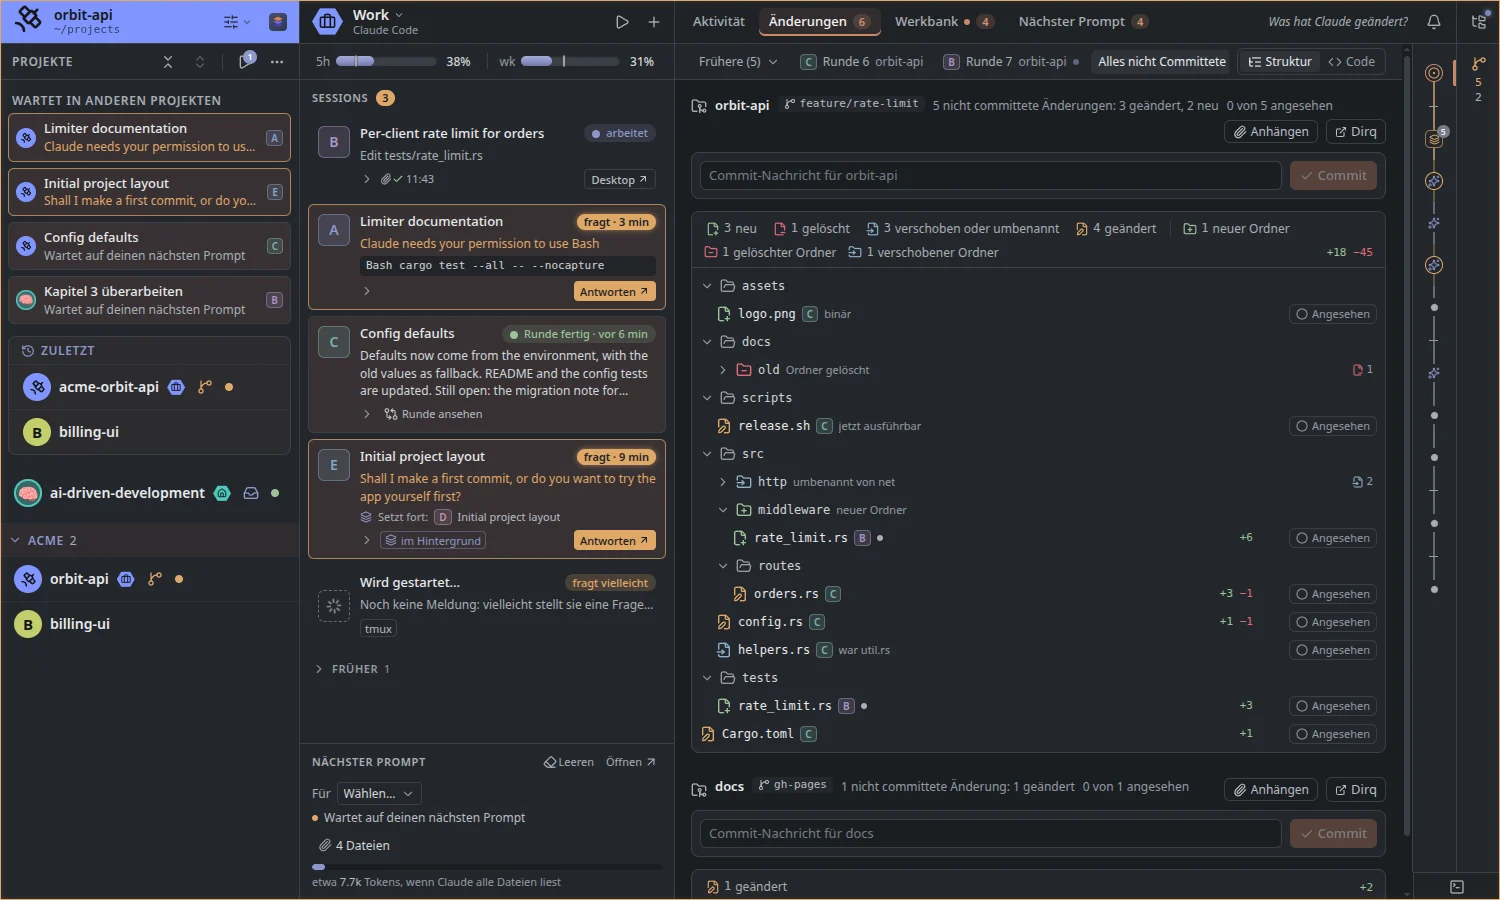
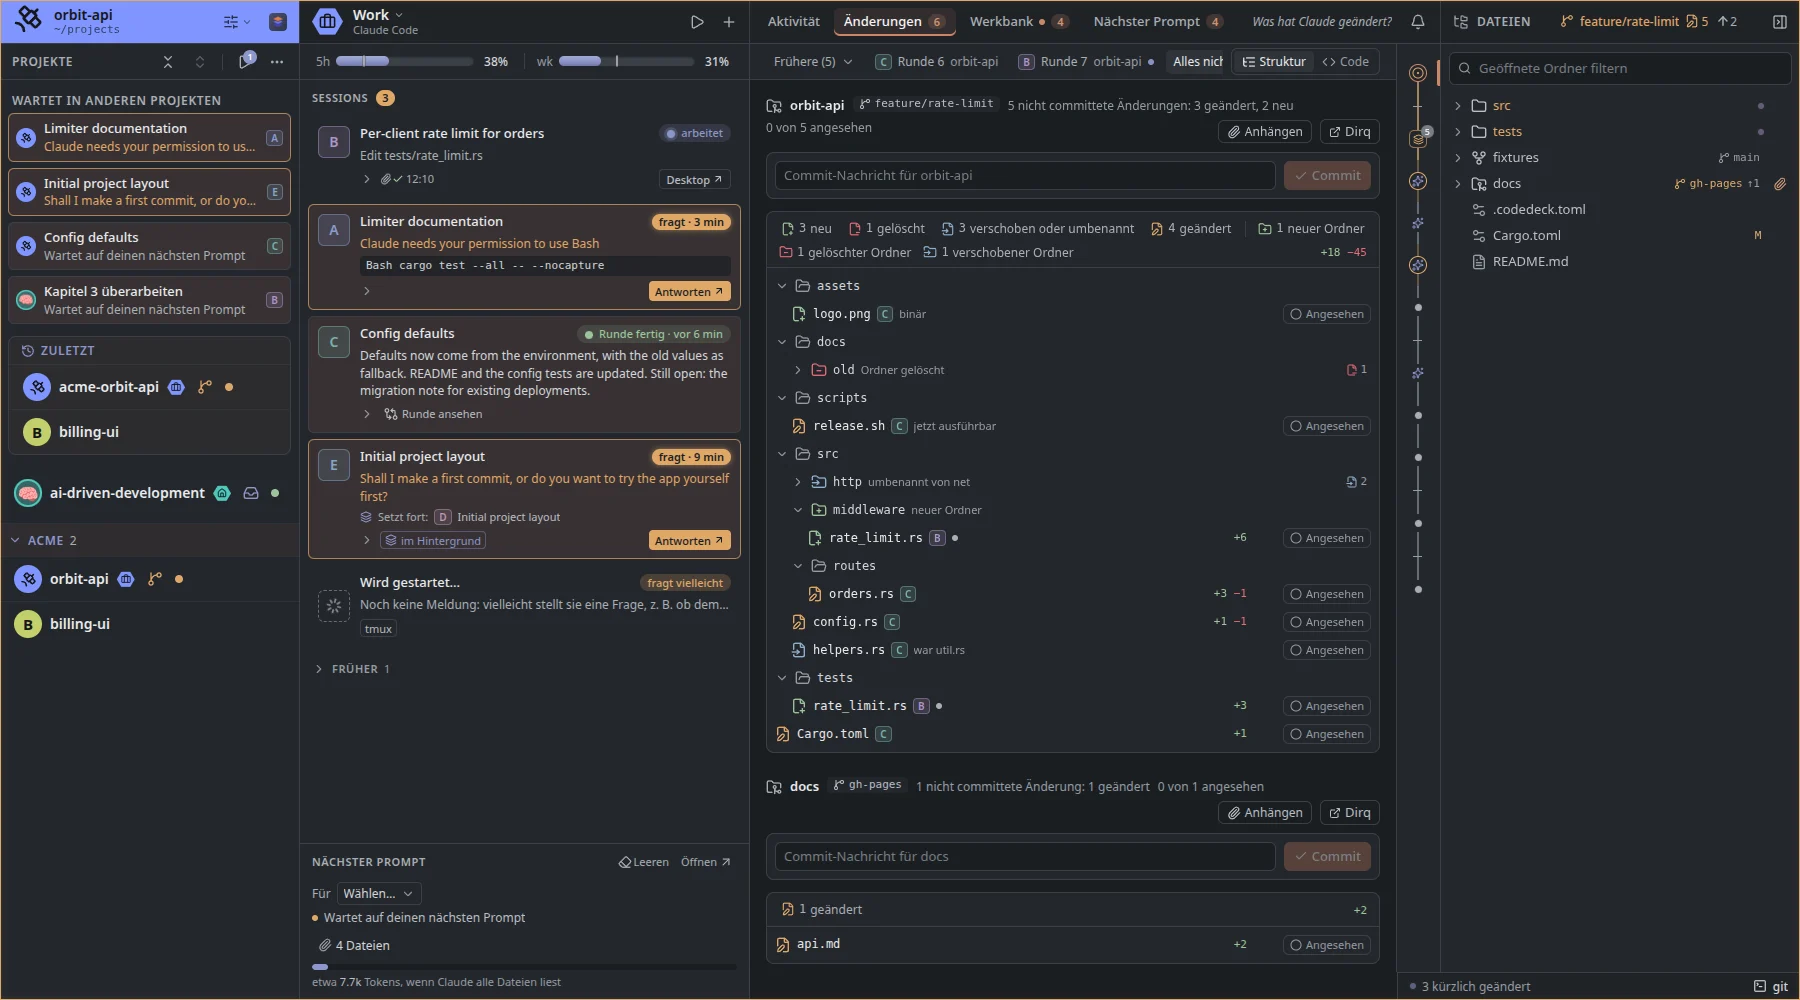
CodeDeck manual: the introduction shows and names the project's files too
Claude-Session: https://claude.ai/code/session_01AmUU1ckh5iDie4vHPz56Cn

diff --git a/src/pages/codedeck/manual/de/einleitung/index.md b/src/pages/codedeck/manual/de/einleitung/index.md
@@ -18,11 +18,11 @@ Der Chat zeigt dir dabei aber nur einen langen, durchlaufenden Text. Nach einer 
 
 CodeDeck ist eine Desktop-App für Linux, die neben deinem Coding-Agent läuft. Sie übernimmt nicht das Gespräch mit der KI, sondern zeigt dir, was dabei herauskommt.
 
-In einem eigenen Fenster siehst du jederzeit, **welche KI-Sessions** in deinem Projekt arbeiten, welche gerade **auf dich warten** und **was sie geändert haben**. Jedes Mal, bevor eine Session in deinem Projekt etwas ändert, legt CodeDeck von selbst einen **Snapshot** an, eine Sicherung deiner Projektdateien, zu der du später zurückkehren kannst. Und wenn du der KI für den nächsten Schritt etwas mitgeben möchtest, etwa eine Datei, eine Änderung oder einen Kommentar zu einer Zeile, sammelt CodeDeck das für dich und hängt es an deinen **nächsten Prompt**.
+In einem eigenen Fenster siehst du jederzeit, **welche KI-Sessions** in deinem Projekt arbeiten, welche gerade **auf dich warten** und **was sie geändert haben**. Jedes Mal, bevor eine Session in deinem Projekt etwas ändert, legt CodeDeck von selbst einen **Snapshot** an, eine Sicherung deiner Projektdateien, zu der du später zurückkehren kannst. Und wenn du der KI für den nächsten Schritt etwas mitgeben möchtest, etwa eine Datei, eine Änderung oder einen Kommentar zu einer Zeile, sammelt CodeDeck das für dich und hängt es an deinen **nächsten Prompt**. Und weil CodeDeck dir auch die **Dateien deines Projekts** als Baum zeigt, in dem jede Datei, die eine Session geändert hat, deren Farbe trägt, siehst du auf einen Blick, wo im Projekt gerade gearbeitet wird.
 
 CodeDeck drängt sich dabei nicht in den Vordergrund. Solange alles läuft, kannst du das Fenster ignorieren oder in den Hintergrund schieben. Erst wenn eine Session etwas von dir braucht, meldet sich CodeDeck.
 
-![Das Projektfenster von CodeDeck: links die Projektliste, daneben die KI-Sessions des Projekts mit ihrem Zustand, in der Mitte die Änderungen als Dateibaum und rechts der Trail mit dem Verlauf des Projekts](/codedeck/manual/de/einleitung-projektfenster.webp)
+![Das Projektfenster von CodeDeck: links die Projektliste, daneben die KI-Sessions des Projekts mit ihrem Zustand, in der Mitte die Änderungen als Dateibaum, rechts davon der Trail mit dem Verlauf des Projekts und ganz rechts die Dateien des Projekts](/codedeck/manual/de/einleitung-projektfenster.webp)
 
 ## Du arbeitest weiter wie gewohnt
 
